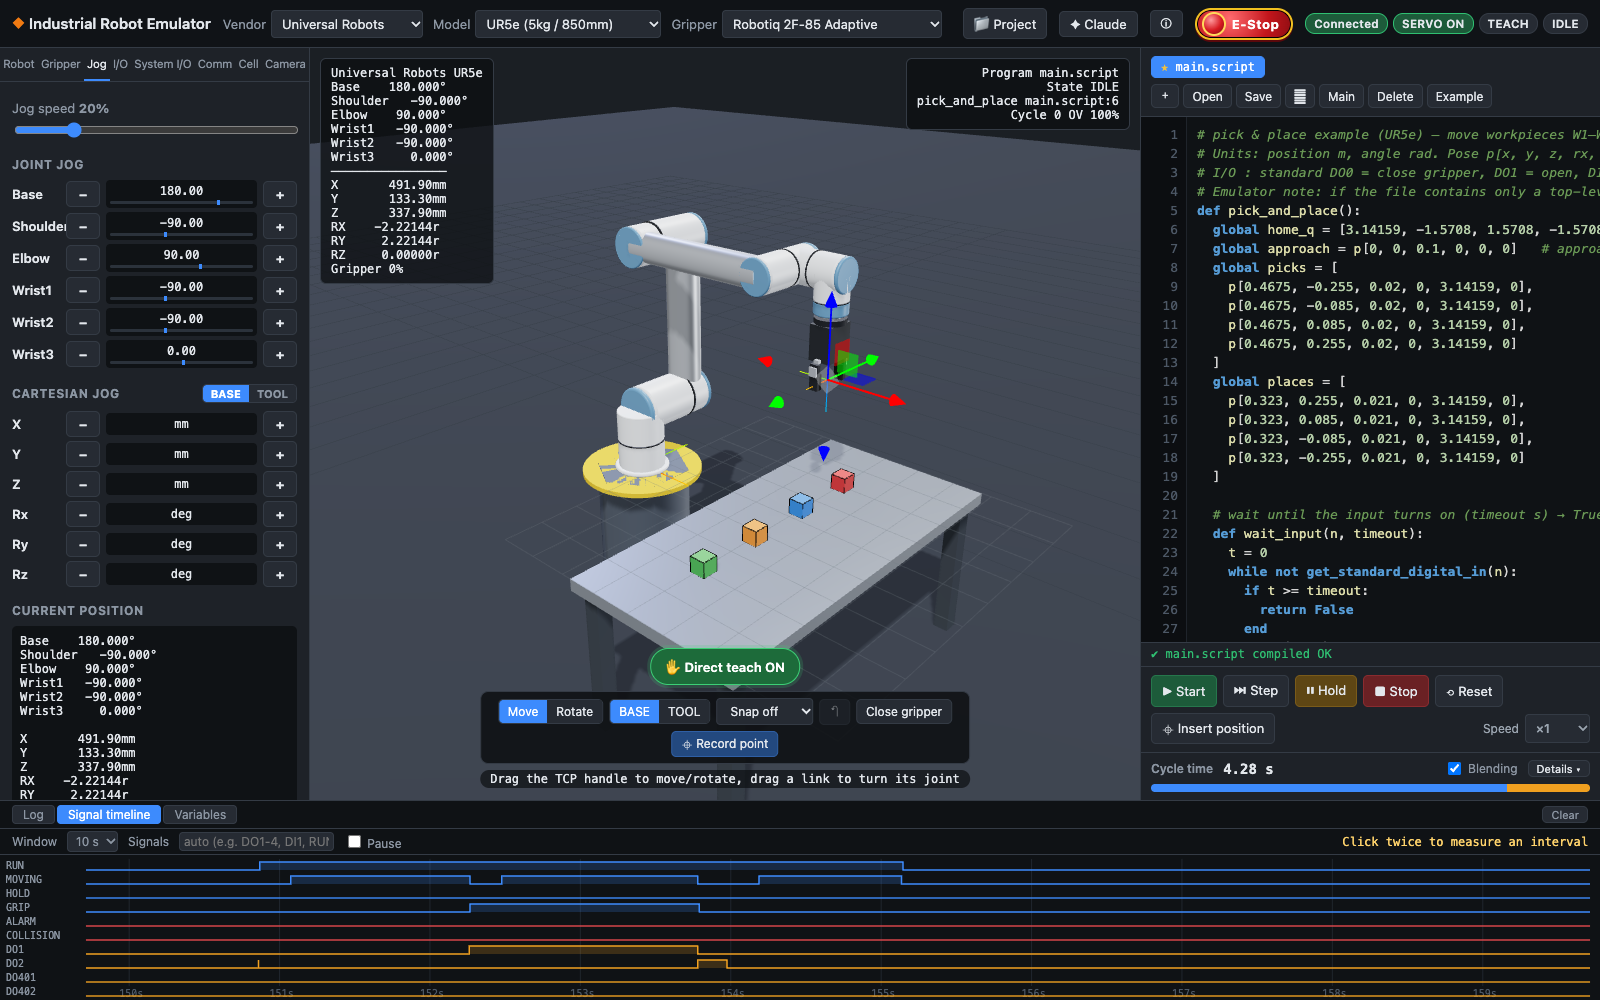
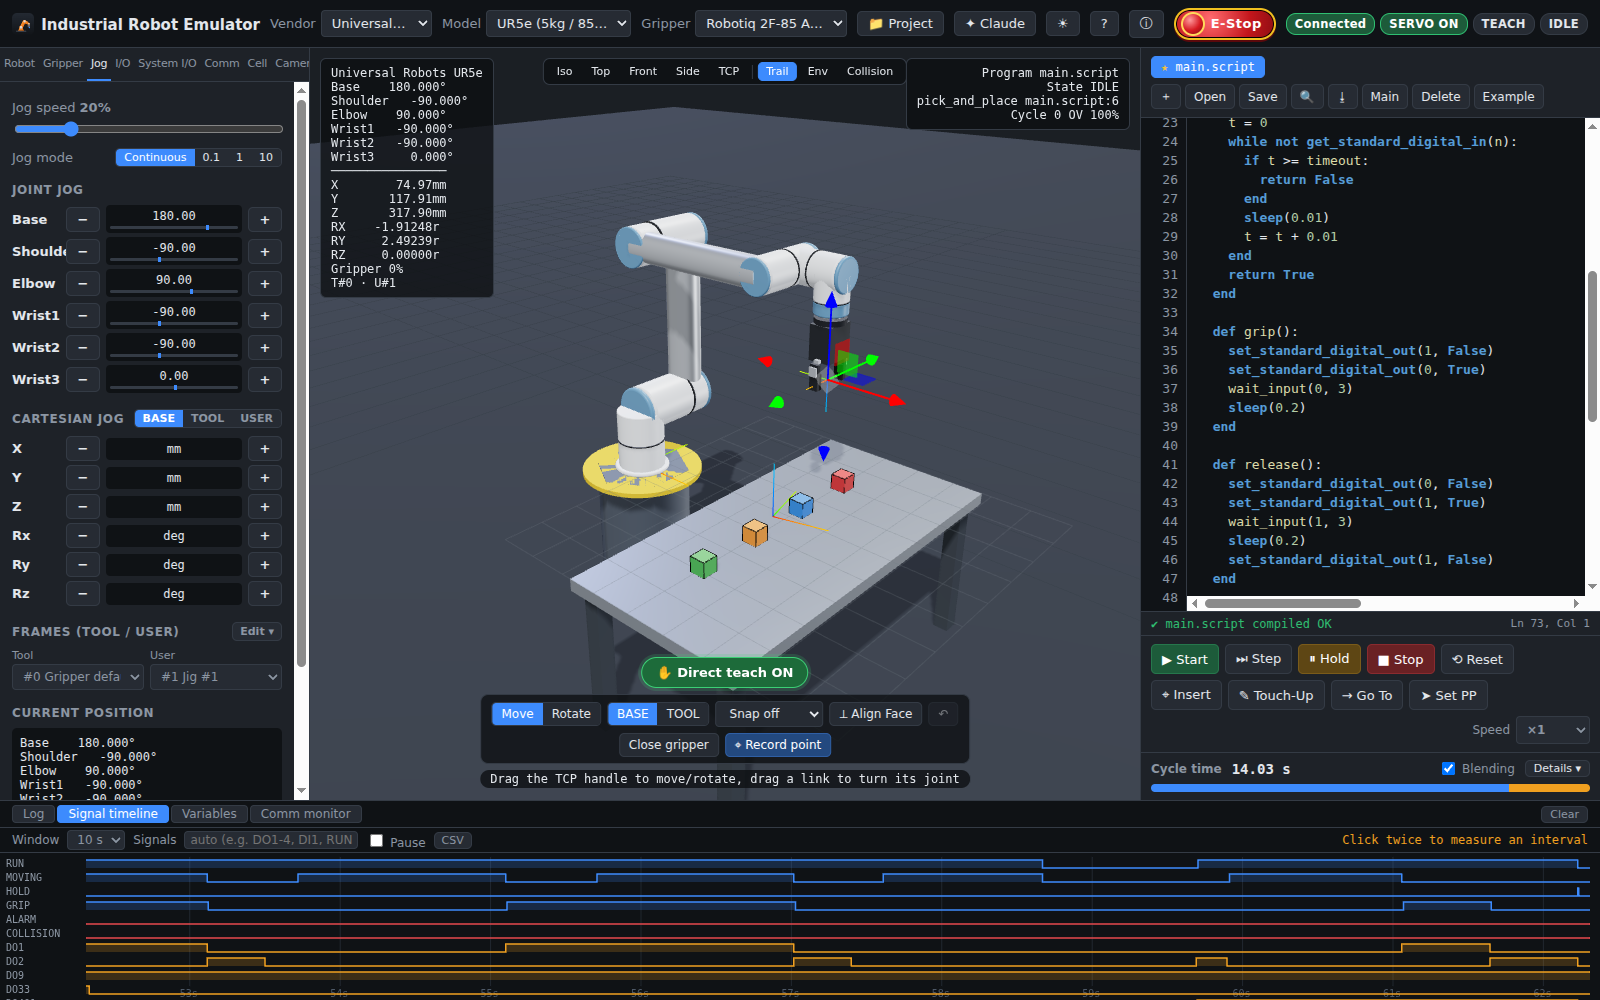
docs: refresh v1.4.0 screenshots, add animated demo.gif, and fix 3D HUD overlap

Changed region(s): [[0.0, 0.0, 1.0, 1.0], [0.3125, 0.651, 0.5938, 0.775], [0.4688, 0.062, 0.5, 0.093]]

diff --git a/public/js/i18n-en.js b/public/js/i18n-en.js
@@ -309,7 +309,7 @@ export const EN = {
     '가상 비전 센서 (DO 트리거)': 'Virtual Vision Sensor (DO Trigger)', '▶ 트리거': '▶ Trigger',
     '지금 시야 내 공작물 검출 실행': 'Run workpiece detection in camera frustum now',
     '트리거 DO': 'Trigger DO', '완료 DI': 'Done DI', '검출 DI': 'Found DI',
-    '레지스터 시작': 'Reg Base', '노이즈 ±mm': 'Noise ±mm', '각도 ±°': 'Angle ±°', '지연 ms': 'Latency ms',
+    '레지스터 시작': 'Reg Base', '노이즈 ±mm': 'Noise ±mm', '각도 ±°': 'Angle ±°', '지연 ms': 'Latency ms', '좌표계': 'Frame',
     '대기 중 (트리거 DO 상승 에지 또는 ▶ 트리거 클릭)': 'Idle (trigger DO rising edge or click ▶ Trigger)',
     '○ 시야 내 공작물 없음': '○ No workpiece in frustum',
     // Phase 3: 경로 복귀, 페이로드, 면 법선 정렬, 폐쇄망 AI 숨김
@@ -374,5 +374,6 @@ export const EN = {
     'Schmalz/SMC 형': 'Schmalz/SMC type', 'Schmalz FXP 형': 'Schmalz FXP type', 'Binzel/Fronius 형': 'Binzel/Fronius type',
     '프로그램 번호 비트': 'Program number bit ', '잡 번호 비트': 'Job number bit ', 'PGNO 비트': 'PGNO bit ', '컬러': 'color', '흑백': 'mono', '깊이': 'depth', '핸드': 'hand', '월드': 'world',
     '(공압)': '(pneumatic)', '(비상정지)': '(E-stop)', ' (비공개 저장소이면 GITHUB_TOKEN 환경변수 필요)': ' (private repository: set GITHUB_TOKEN)',
+    'TCP 250 mm/s 제한': 'TCP 250 mm/s limit',
   },
 };

diff --git a/public/style.css b/public/style.css
@@ -218,7 +218,8 @@ h3 small { text-transform: none; letter-spacing: 0; font-weight: 400; }
 .tc:empty { display: none; }
 
 /* 3D 뷰 빠른 HUD */
-.view-hud { position: absolute; left: 10px; bottom: 10px; z-index: 4; display: flex; align-items: center; gap: 3px; background: var(--ov-bg); border: 1px solid var(--line); border-radius: 7px; padding: 3px 5px; }
+.view-hud { position: absolute; left: 50%; top: 10px; transform: translateX(-50%); z-index: 4; display: flex; align-items: center; gap: 3px; background: var(--ov-bg); border: 1px solid var(--line); border-radius: 7px; padding: 3px 5px; white-space: nowrap; }
+main.chat-open .view-hud { top: auto; bottom: 48px; }
 .view-hud button { padding: 2px 7px; font-size: 11px; background: transparent; border-color: transparent; }
 .view-hud button:hover { background: var(--panel2); border-color: var(--line); }
 .view-hud button.active { background: var(--acc); border-color: var(--acc); color: #fff; }

diff --git a/README.md b/README.md
@@ -16,13 +16,14 @@ A virtual robot controller that emulates Yaskawa, Kawasaki, Hyundai, ABB, KUKA, 
 
 The UI is available in English and Korean. It follows the browser language, and you can switch in the About (ⓘ) dialog or with `?lang=en` / `?lang=ko`.
 
-![KUKA KR 6 R900 running a KRL pick & place program with the signal timeline](screenshots/main.png)
+![KUKA KR 6 R900 running a KRL pick & place cycle in real time with TCP trail and signal timeline](screenshots/demo.gif)
 
 | | |
 |---|---|
-| ![Conveyor cell preset with an ABB IRB 1200 running RAPID](screenshots/cell-conveyor.png) **Cell layout** — conveyor, feeder and sensor preset (ABB RAPID) | ![System I/O: a PLC-style external start of a Yaskawa INFORM job in REMOTE mode](screenshots/system-io.png) **System I/O** — PLC handshake signals, external start in REMOTE (Yaskawa INFORM) |
-| ![Direct teach gizmo on a UR5e](screenshots/direct-teach.png) **Direct teach** — drag the TCP or a link (Universal Robots) | ![Flange-mounted depth camera and a fixed monitoring camera with live previews](screenshots/vision-camera.png) **Vision cameras** — flange and fixed cameras with live previews |
-| ![Claude chat panel next to a Doosan DRL program](screenshots/claude-chat.png) **Claude chat** — write, compile and test-run programs (Doosan DRL) | ![About dialog with version, update check, issue links and sponsor link](screenshots/about.png) **About** — version, one-click update, contact, sponsor |
+| ![KUKA KR 6 R900 running a KRL pick & place program with Touch-Up, Go To, Set PP, and payload/recovery controls](screenshots/main.png) **Main controller** — KRL execution, Touch-Up / Go To / Set PP, payload & path recovery (KUKA) | ![Conveyor cell preset with SafeZone and Interference Zone overlays on an ABB IRB 1200](screenshots/cell-conveyor.png) **Cell layout & zones** — conveyor, feeder, SafeZone & Interference Zone overlays (ABB RAPID) |
+| ![System I/O: a PLC-style external start of a Yaskawa INFORM job in REMOTE mode](screenshots/system-io.png) **System I/O** — PLC handshake signals, external start in REMOTE (Yaskawa INFORM) | ![Direct teach gizmo with Align Face, Step Jog, and User Frame on a UR5e](screenshots/direct-teach.png) **Direct teach & frames** — TCP/link drag, Align Face, Step Jog & User Frame (Universal Robots) |
+| ![Flange-mounted depth camera, overhead monitoring camera, and Virtual Vision Sensor detection](screenshots/vision-camera.png) **Vision cameras & sensor** — live depth/color PiPs and DO-triggered Virtual Vision Sensor | ![Claude chat panel next to a Doosan DRL program](screenshots/claude-chat.png) **Claude chat** — write, compile and test-run programs (Doosan DRL) |
+| ![About dialog v1.4.0 with Air-gapped AI toggle, update check, issue links and sponsor link](screenshots/about.png) **About & Air-gapped mode** — version, air-gapped AI hide toggle, one-click update | |
 
 ## Download
 

diff --git a/README.ko.md b/README.ko.md
@@ -15,13 +15,14 @@
 
 화면은 한국어와 영어를 지원합니다. 브라우저 언어에 따라 자동으로 고르며, 정보(ⓘ) 창에서 바꿀 수 있습니다. 아래는 영어 화면입니다.
 
-![KUKA KR 6 R900 running a KRL pick & place program with the signal timeline](screenshots/main.png)
+![KUKA KR 6 R900이 KRL 픽앤플레이스 사이클을 3D 궤적·신호 타임라인과 함께 실행하는 데모](screenshots/demo.gif)
 
 | | |
 |---|---|
-| ![Conveyor cell preset with an ABB IRB 1200 running RAPID](screenshots/cell-conveyor.png) **Cell layout** — conveyor, feeder and sensor preset (ABB RAPID) | ![System I/O: a PLC-style external start of a Yaskawa INFORM job in REMOTE mode](screenshots/system-io.png) **System I/O** — PLC handshake signals, external start in REMOTE (Yaskawa INFORM) |
-| ![Direct teach gizmo on a UR5e](screenshots/direct-teach.png) **Direct teach** — drag the TCP or a link (Universal Robots) | ![Flange-mounted depth camera and a fixed monitoring camera with live previews](screenshots/vision-camera.png) **Vision cameras** — flange and fixed cameras with live previews |
-| ![Claude chat panel next to a Doosan DRL program](screenshots/claude-chat.png) **Claude chat** — write, compile and test-run programs (Doosan DRL) | ![About dialog with version, update check, issue links and sponsor link](screenshots/about.png) **About** — version, one-click update, contact, sponsor |
+| ![KUKA KR 6 R900 KRL 실행 화면 (덮어쓰기·포인트 이동·PP 이동·페이로드·경로 복귀)](screenshots/main.png) **메인 컨트롤러** — KRL 실행, Touch-Up / Go To / Set PP, 페이로드 · 경로 복귀 (KUKA) | ![ABB IRB 1200 컨베이어 셀 및 안전 영역/간섭 구역 3D 표시](screenshots/cell-conveyor.png) **셀 레이아웃 · 안전 구역** — 컨베이어·피더·SafeZone·간섭 구역 (ABB RAPID) |
+| ![야스카와 GP7 REMOTE 모드 시스템 I/O 외부 기동](screenshots/system-io.png) **시스템 I/O** — PLC 핸드셰이크 신호, REMOTE 외부 기동 (Yaskawa INFORM) | ![UR5e 직접교시·면 정렬·스텝 조그·User Frame](screenshots/direct-teach.png) **직접교시 · 좌표계** — TCP/링크 드래그, 면 정렬, 스텝 조그, User Frame (Universal Robots) |
+| ![플랜지 깊이 카메라·상부 모니터링 카메라 및 가상 비전 센서 검출](screenshots/vision-camera.png) **비전 카메라 · 가상 센서** — 깊이/컬러 실시간 PiP 및 DO 트리거 가상 비전 센서 | ![두산 M1013 DRL 프로그램과 Claude 채팅 패널](screenshots/claude-chat.png) **Claude 채팅** — 프로그램 작성·컴파일·시험 실행 (Doosan DRL) |
+| ![정보 창 v1.4.0 — 폐쇄망 AI 숨김, 원클릭 업데이트, 문의·후원](screenshots/about.png) **정보 · 폐쇄망 모드** — 버전, 폐쇄망 AI 숨김 토글, 원클릭 업데이트 | |
 
 ## 내려받기
 
